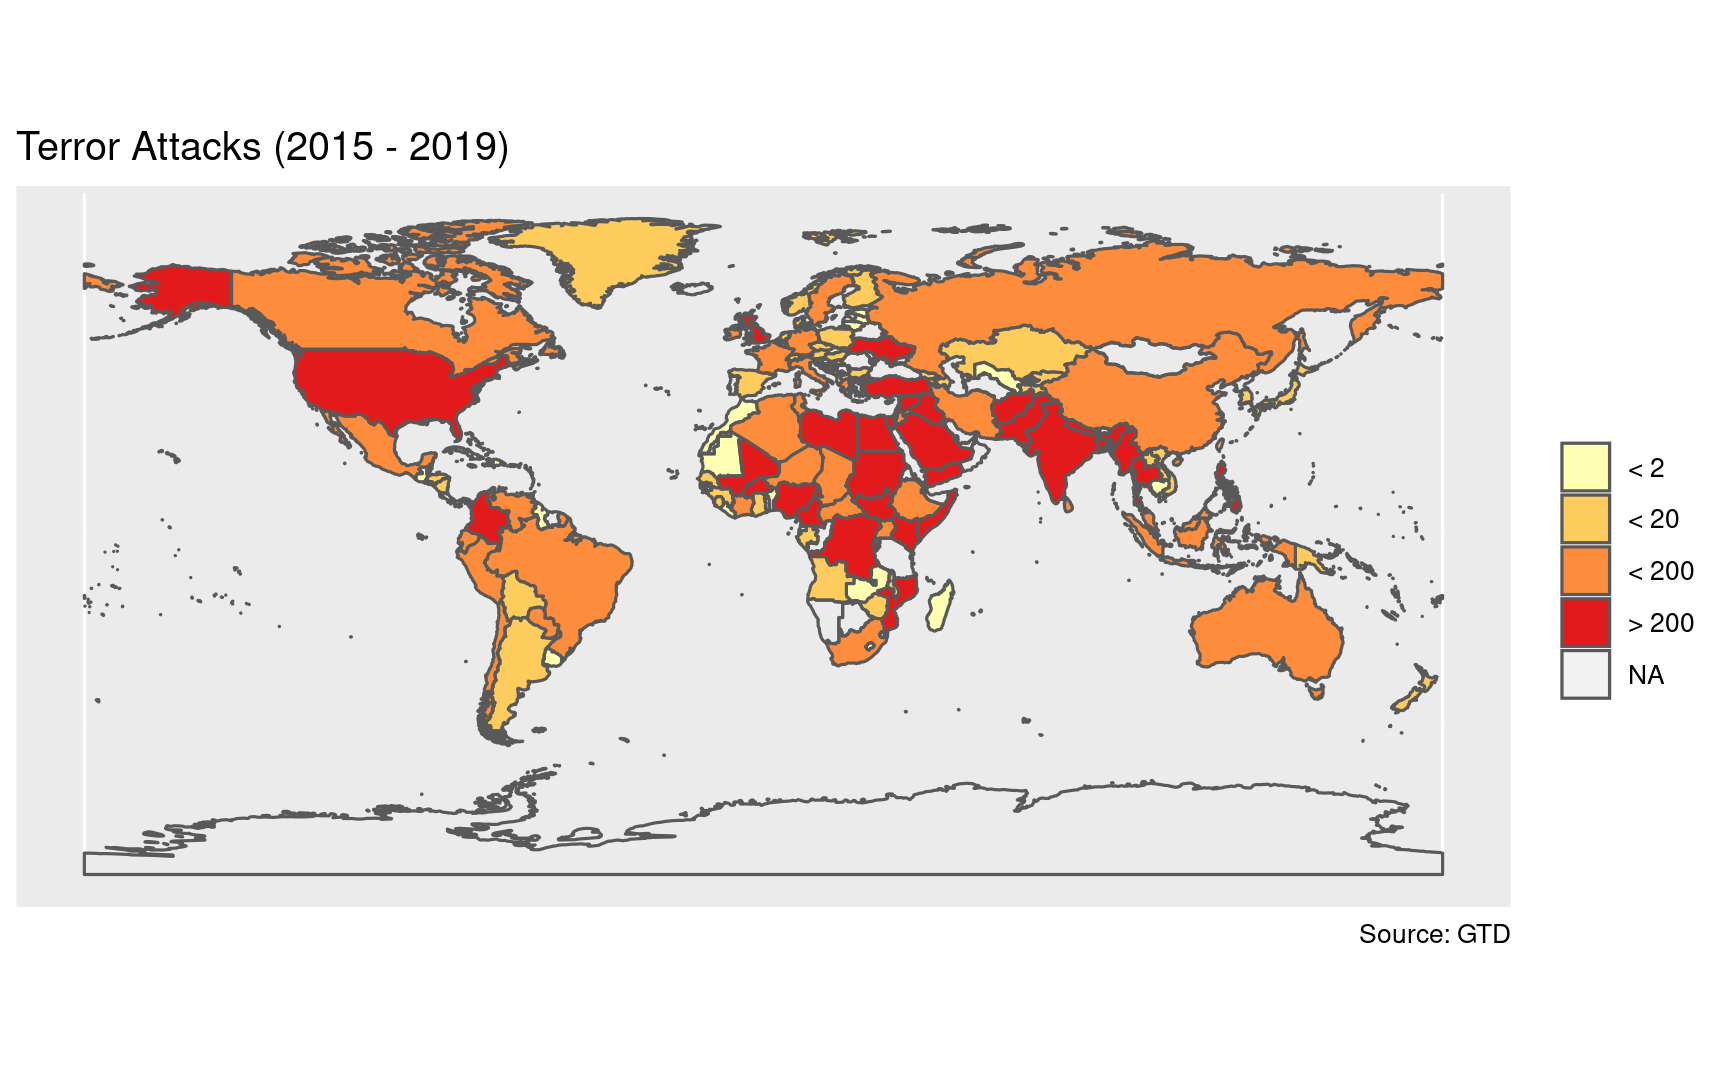
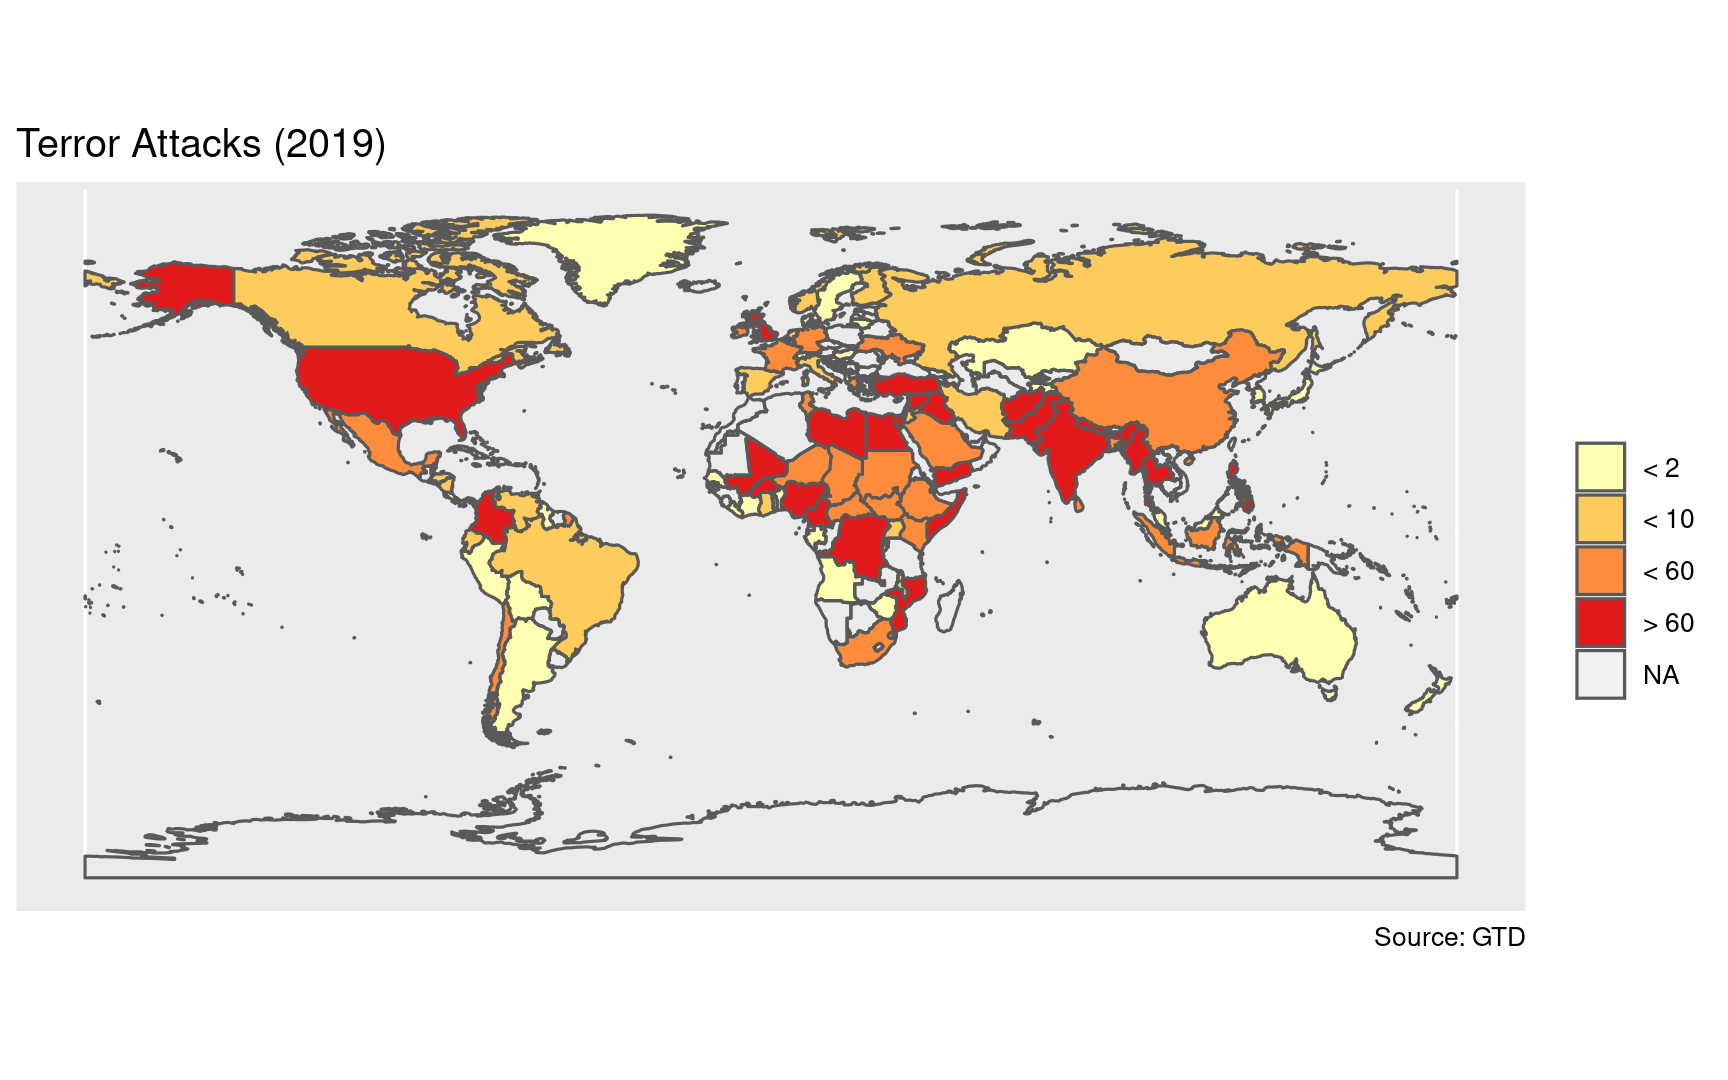
Refine 11-2 maps

diff --git a/11-2-GTD.html b/11-2-GTD.html
@@ -139,6 +139,21 @@ AFTER READING THROUGH THE WEBSITE MATERIAL DO YOU HAVE ANY CONCERNS ABOUT INSTIT
 
 IS THE "UNCLASSIFIED" NOTE HERE HINTING AT SOMETHING WE DON'T KNOW ABOUT THAT THEY DO KNOW ABOUT? 
 
+&lt;br&gt;
+
+OK, TALK TO ME ABOUT THE DATA COLLECTION METHODOLOGY.
+
+- HOW DO THEY COLLECT THEIR DATA?
+
+&lt;br&gt;
+
+(p10)
+
+- combines automated and manual data collection strategies
+- over one million media articles on any topic published daily worldwide - Lexis Nexis for English and BBC Monitoring for English-language translations of sources from around 150 countries in over 100 languages
+- First pass: customized keyword filters and natural language processing (NLP) to identify terrorism articles
+- Second pass: Researchers review subset of articles identified and code them.
+- Quality Control: The coding strategy relies on six coding teams that each specialize on a particular domain of the GTD Codebook.
 
 
 ---
@@ -262,6 +277,7 @@ Since a case must meet 2 out of 3 criteria, I'd like to know if the 2% of cases 
 I'll spare you the insanity but I went down quite the rabbit hole with this and the cases looked fairly similar across the variables in this dataset.
 
 Some differences, but nothing crazy.
+
 
 
 
@@ -391,11 +407,9 @@ class: middle, slideblue
 .size35[
 1. Pros and cons of generalizing from this dataset?
 2. **Is the damage caused by terrorism getting worse?**
-3. Where are the terrorism hot spots in the world?
+3. **Where are the terrorism hot spots in the world?**
 4. **Are the characteristics of terrorism changing?**
 ]
-
-&lt;br&gt;
 
 ### Examine all cases across time broken out by:
 .size40[
@@ -567,7 +581,7 @@ WHAT CONCLUSIONS CAN WE DRAW USING THIS MAP OF THE DATA?
 
 &lt;br&gt;
 
-Let's check out the recent five years of the data.
+Let's check out the most recent year in the db, 2019.
 
 
 
@@ -614,6 +628,8 @@ Get ready to tell me what the cases look like.
 ---
 
 class: middle, center
+
+.size50[.center[**USA (2010 - 2019)**]]
 
 .size40[
 
